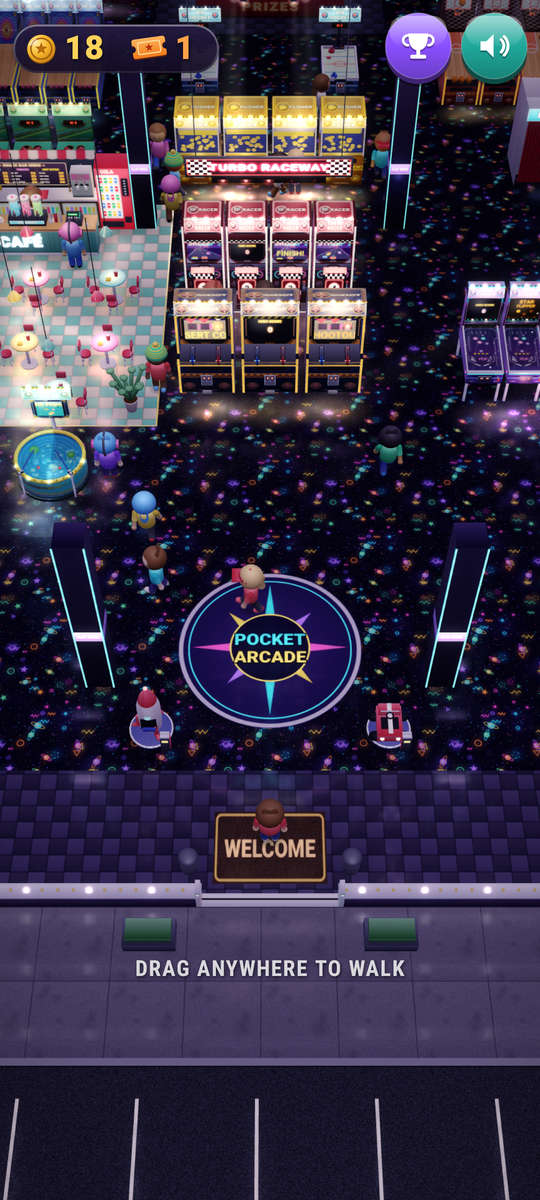
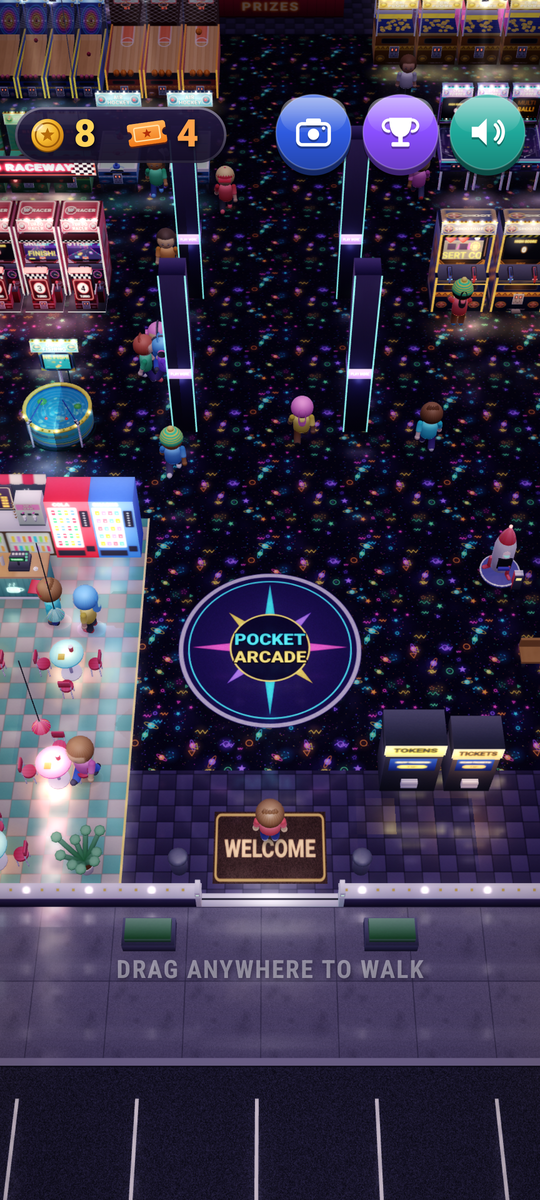
Add first person and the new floor plan to the README

diff --git a/README.md b/README.md
@@ -1,6 +1,6 @@
 # Pocket Arcade
 
-A 3D arcade for Android that you walk around in. Stroll a blacklight-carpeted arcade floor with a floating joystick, past banks of claw machines, skee-ball alleys, linked racers, light-gun cabinets, pinball tables, fishing tubs and a coin-pusher island. Step up to a glowing cabinet, spend a token, and the camera dives into the machine's screen. Play a 40–75 second round, watch your tickets print out of the slot, then trade them at the prize counter for hats, outfits and decorations that show up in the hall.
+A 3D arcade for Android that you walk around in. Stroll a blacklight-carpeted arcade floor with a floating joystick, from overhead or in first person at a kid's eye height, past banks of claw machines, skee-ball alleys, linked racers, light-gun cabinets, pinball tables, fishing tubs and a coin-pusher island. Step up to a glowing cabinet, spend a token, and the camera dives into the machine's screen. Play a 40–75 second round, watch your tickets print out of the slot, then trade them at the prize counter for hats, outfits and decorations that show up in the hall.
 
 Everything is made in code. The hall and every machine are rendered on the GPU with OpenGL ES 3: per-pixel lighting from dozens of coloured lights with rim light, 4× anti-aliasing, a multi-scale bloom glow on neon and screens, and colour grading. Every model, texture, font glyph and sound is generated at runtime. Textures are painted with Android's 2D canvas, and sounds are synthesized through `AudioTrack`. The app ships no image or audio files and uses no third-party libraries beyond AndroidX/Compose.
 
@@ -8,6 +8,7 @@ Everything is made in code. The hall and every machine are rendered on the GPU w
   <img src="docs/screenshots/title.png" width="160" alt="Title screen">
   <img src="docs/screenshots/hall.png" width="160" alt="The arcade hall">
   <img src="docs/screenshots/cafe.png" width="160" alt="The café">
+  <img src="docs/screenshots/first-person.png" width="160" alt="First person">
   <img src="docs/screenshots/prize-counter.png" width="160" alt="Prize counter">
   <img src="docs/screenshots/claw.png" width="160" alt="Claw machine">
   <img src="docs/screenshots/skeeball.png" width="160" alt="Skee-ball">
@@ -41,8 +42,9 @@ Everything is made in code. The hall and every machine are rendered on the GPU w
 - A lighting rig: trusses and wall rails with spotlights that throw beams through the haze and coloured pools in front of every bank, backlit murals, a hung TURBO RACEWAY sign with start lights, and chase bulbs round the entrance.
 - Blacklight carpet that fluoresces, terrazzo at the entrance, walls rising into the dark with acoustic panels, uplights and a backlit mural, and the street outside through the cut-away shopfront.
 - 3D kids with a walk cycle, poses for playing, cheering and sitting, and hats. Yours follows a floating joystick that appears wherever your thumb lands. The other kids find their way between machines, play them, queue at the café till and sit down with a drink or a cone. A barista wipes the counter and makes each order at the slushie, espresso or soft-serve station.
+- **First person.** The eye button next to the trophy switches between the overhead camera and a kid's-eye view, easing between the two. In first person the left thumb walks (forward, back and strafe), the right thumb drags to look, and your choice is remembered. Up close the hall is finished on every side: closed cabinet backs with service panels, a ceiling of acoustic tiles, light panels, ducts and sprinklers, and a glass shopfront onto the street.
 - Collision against walls, cabinets and furniture, with sliding along edges.
-- Walk up to a machine and a **▶ PLAY (1 token)** prompt pops up. Tap it and the camera flies into the screen of the cabinet you're standing at. Exiting flies you back out to exactly where you stood.
+- Walk up to a machine and a **▶ PLAY (1 token)** prompt pops up. Tap it and the camera flies into the screen of the cabinet you're standing at. Exiting flies you back out to exactly where you stood (in first person, facing the machine).
 - An ambient arcade soundscape: mains hum, crowd murmur and distant machine bleeps.
 
 **Eleven machines**, each a full 3D game that pays out tickets:
@@ -89,6 +91,7 @@ Everything is made in code. The hall and every machine are rendered on the GPU w
   - The multisampled buffers are discarded after the resolve, which saves memory bandwidth on tile-based phone GPUs.
   - The render resolution eases down if frames run long and recovers after a hitch; on fast GPUs with timer queries it can go above the usual 0.8.
 - **Textures.** They are painted with Android's `Canvas` (gradients, real fonts, glows and grain). A texture can be stored at a finer resolution than the texel size the code maps it in. Live textures such as cabinet screens reuse their upload buffers instead of allocating a copy every frame.
+- **Culling.** The hall culls cabinets, fixtures, kids and lights against the camera's view frustum and a draw distance hidden by fog, so the same scene works looking straight down or level at eye height. Each pass sets its own near plane.
 - **Stage3D.** Gives each game a 3D view that maps touches onto world planes and world points back to the screen.
 - **GL context loss.** GPU resources are tagged with a process-wide generation, so models and textures cached for the whole app are re-uploaded after the activity is recreated.
 
